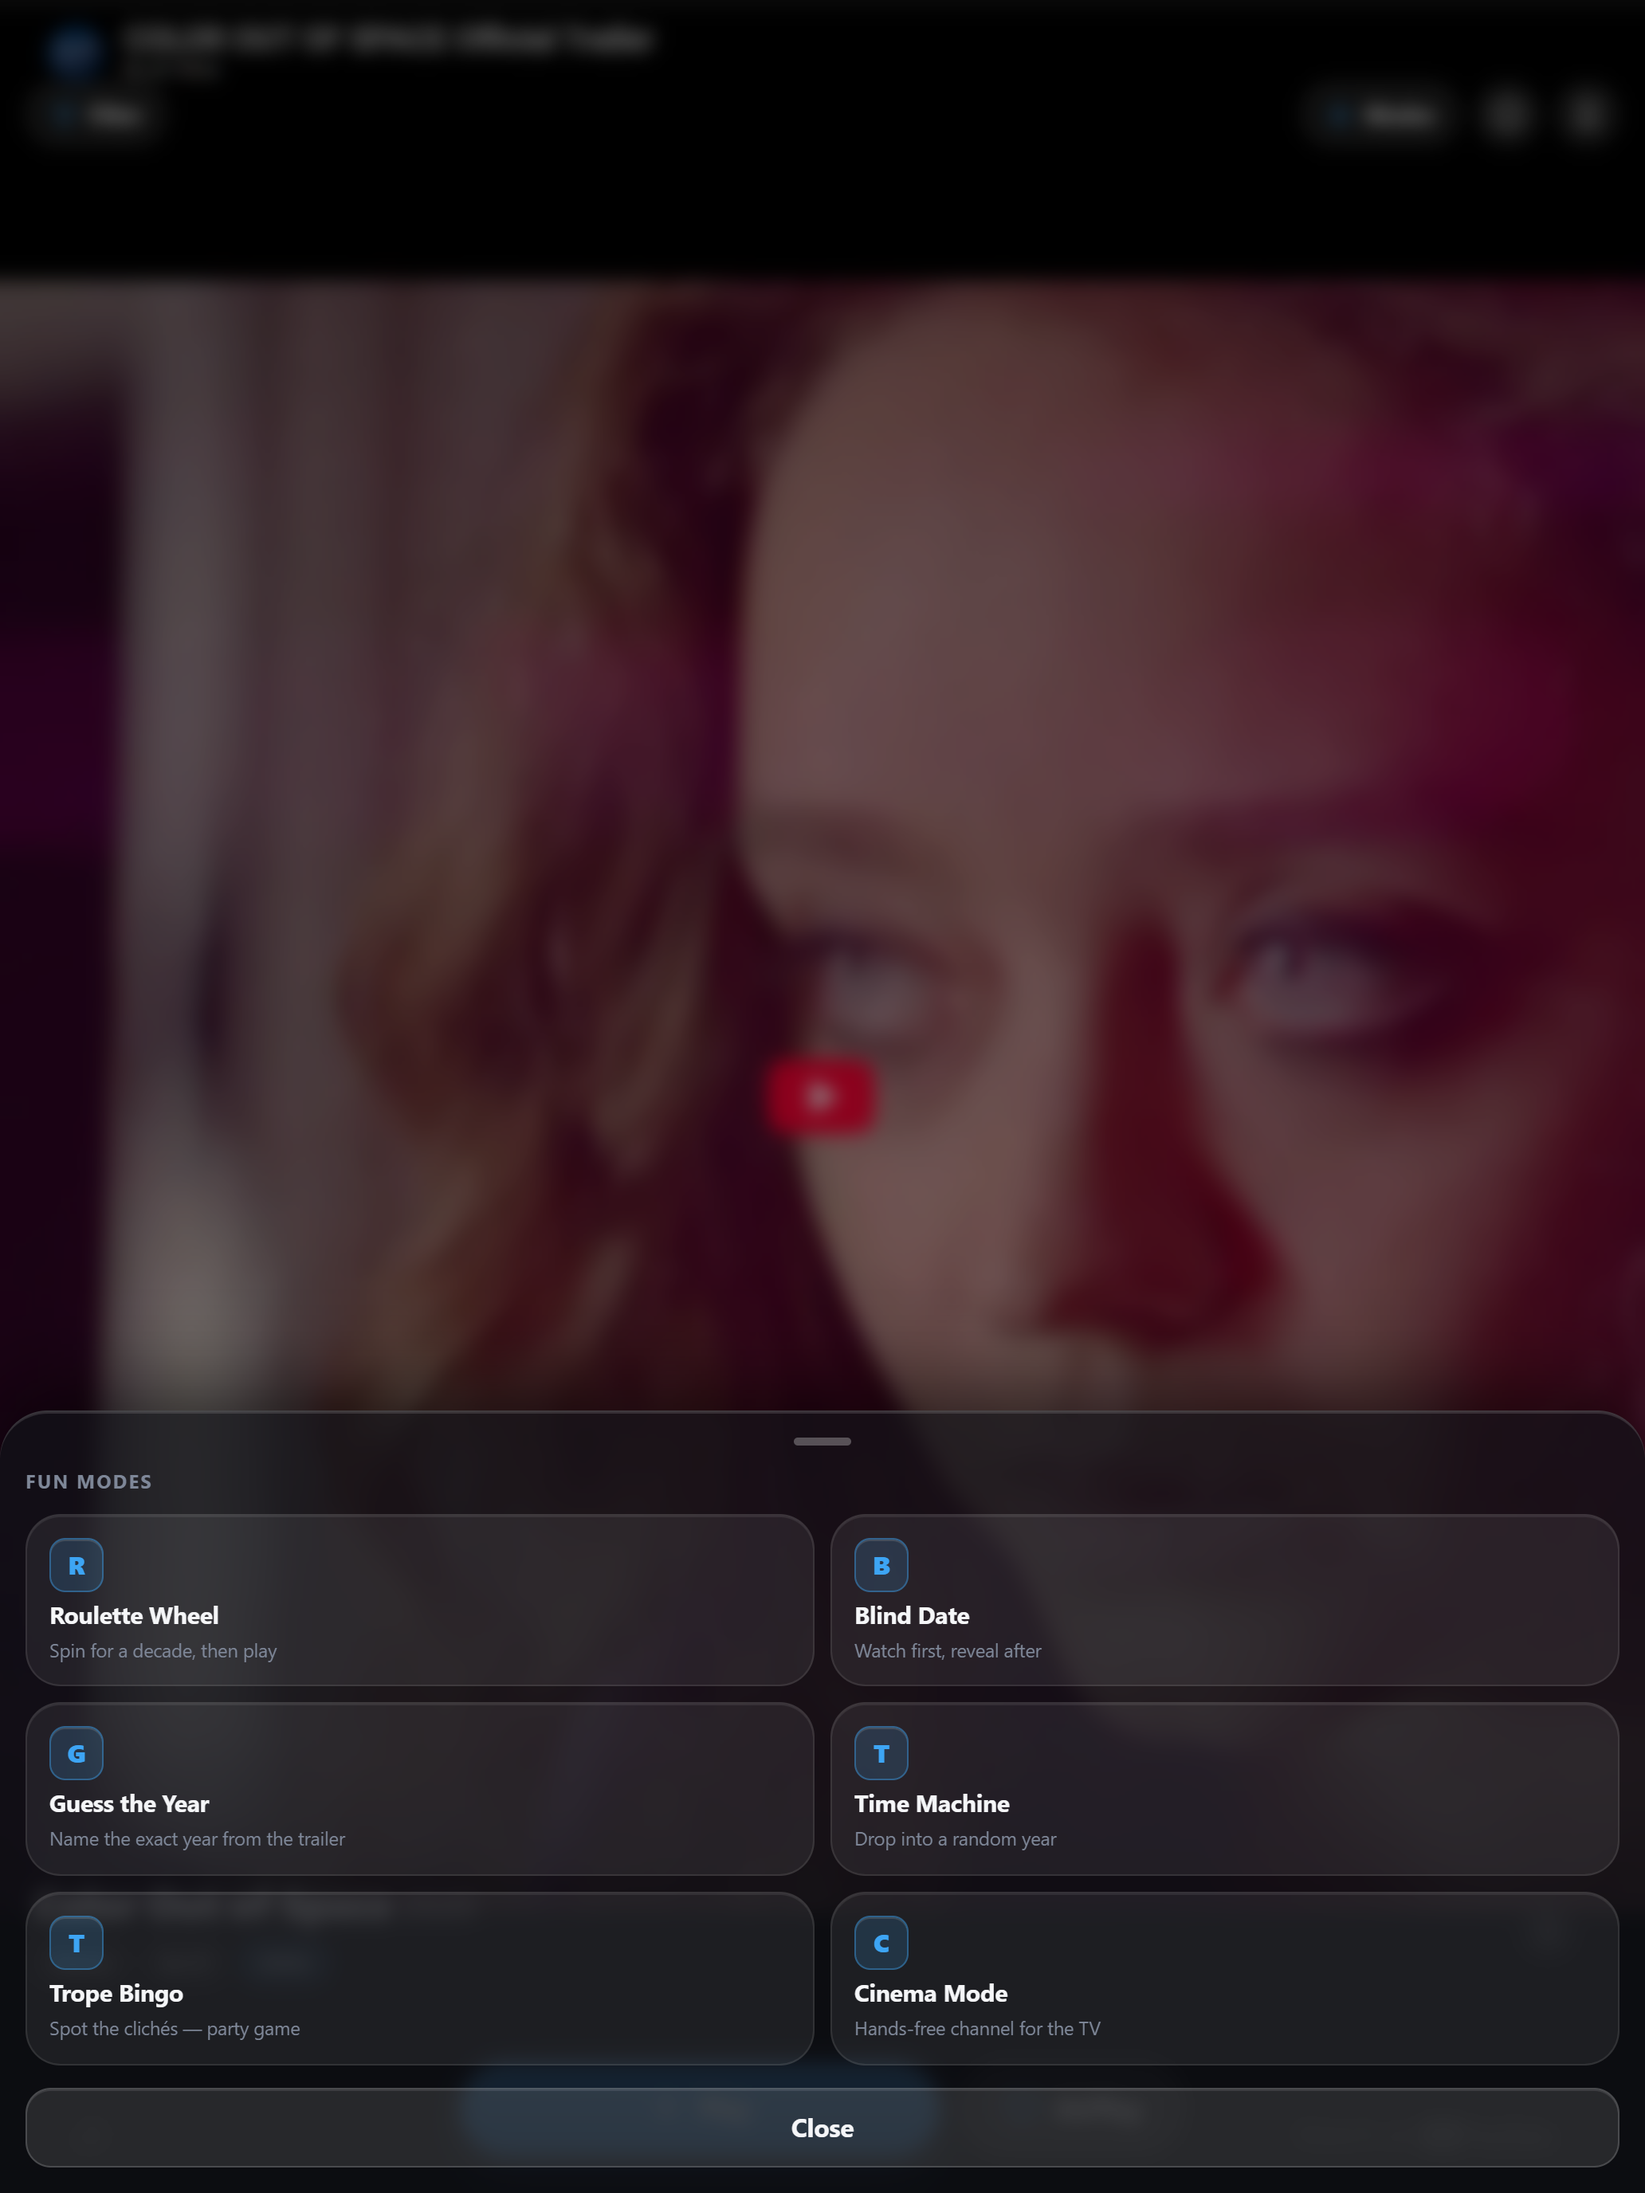
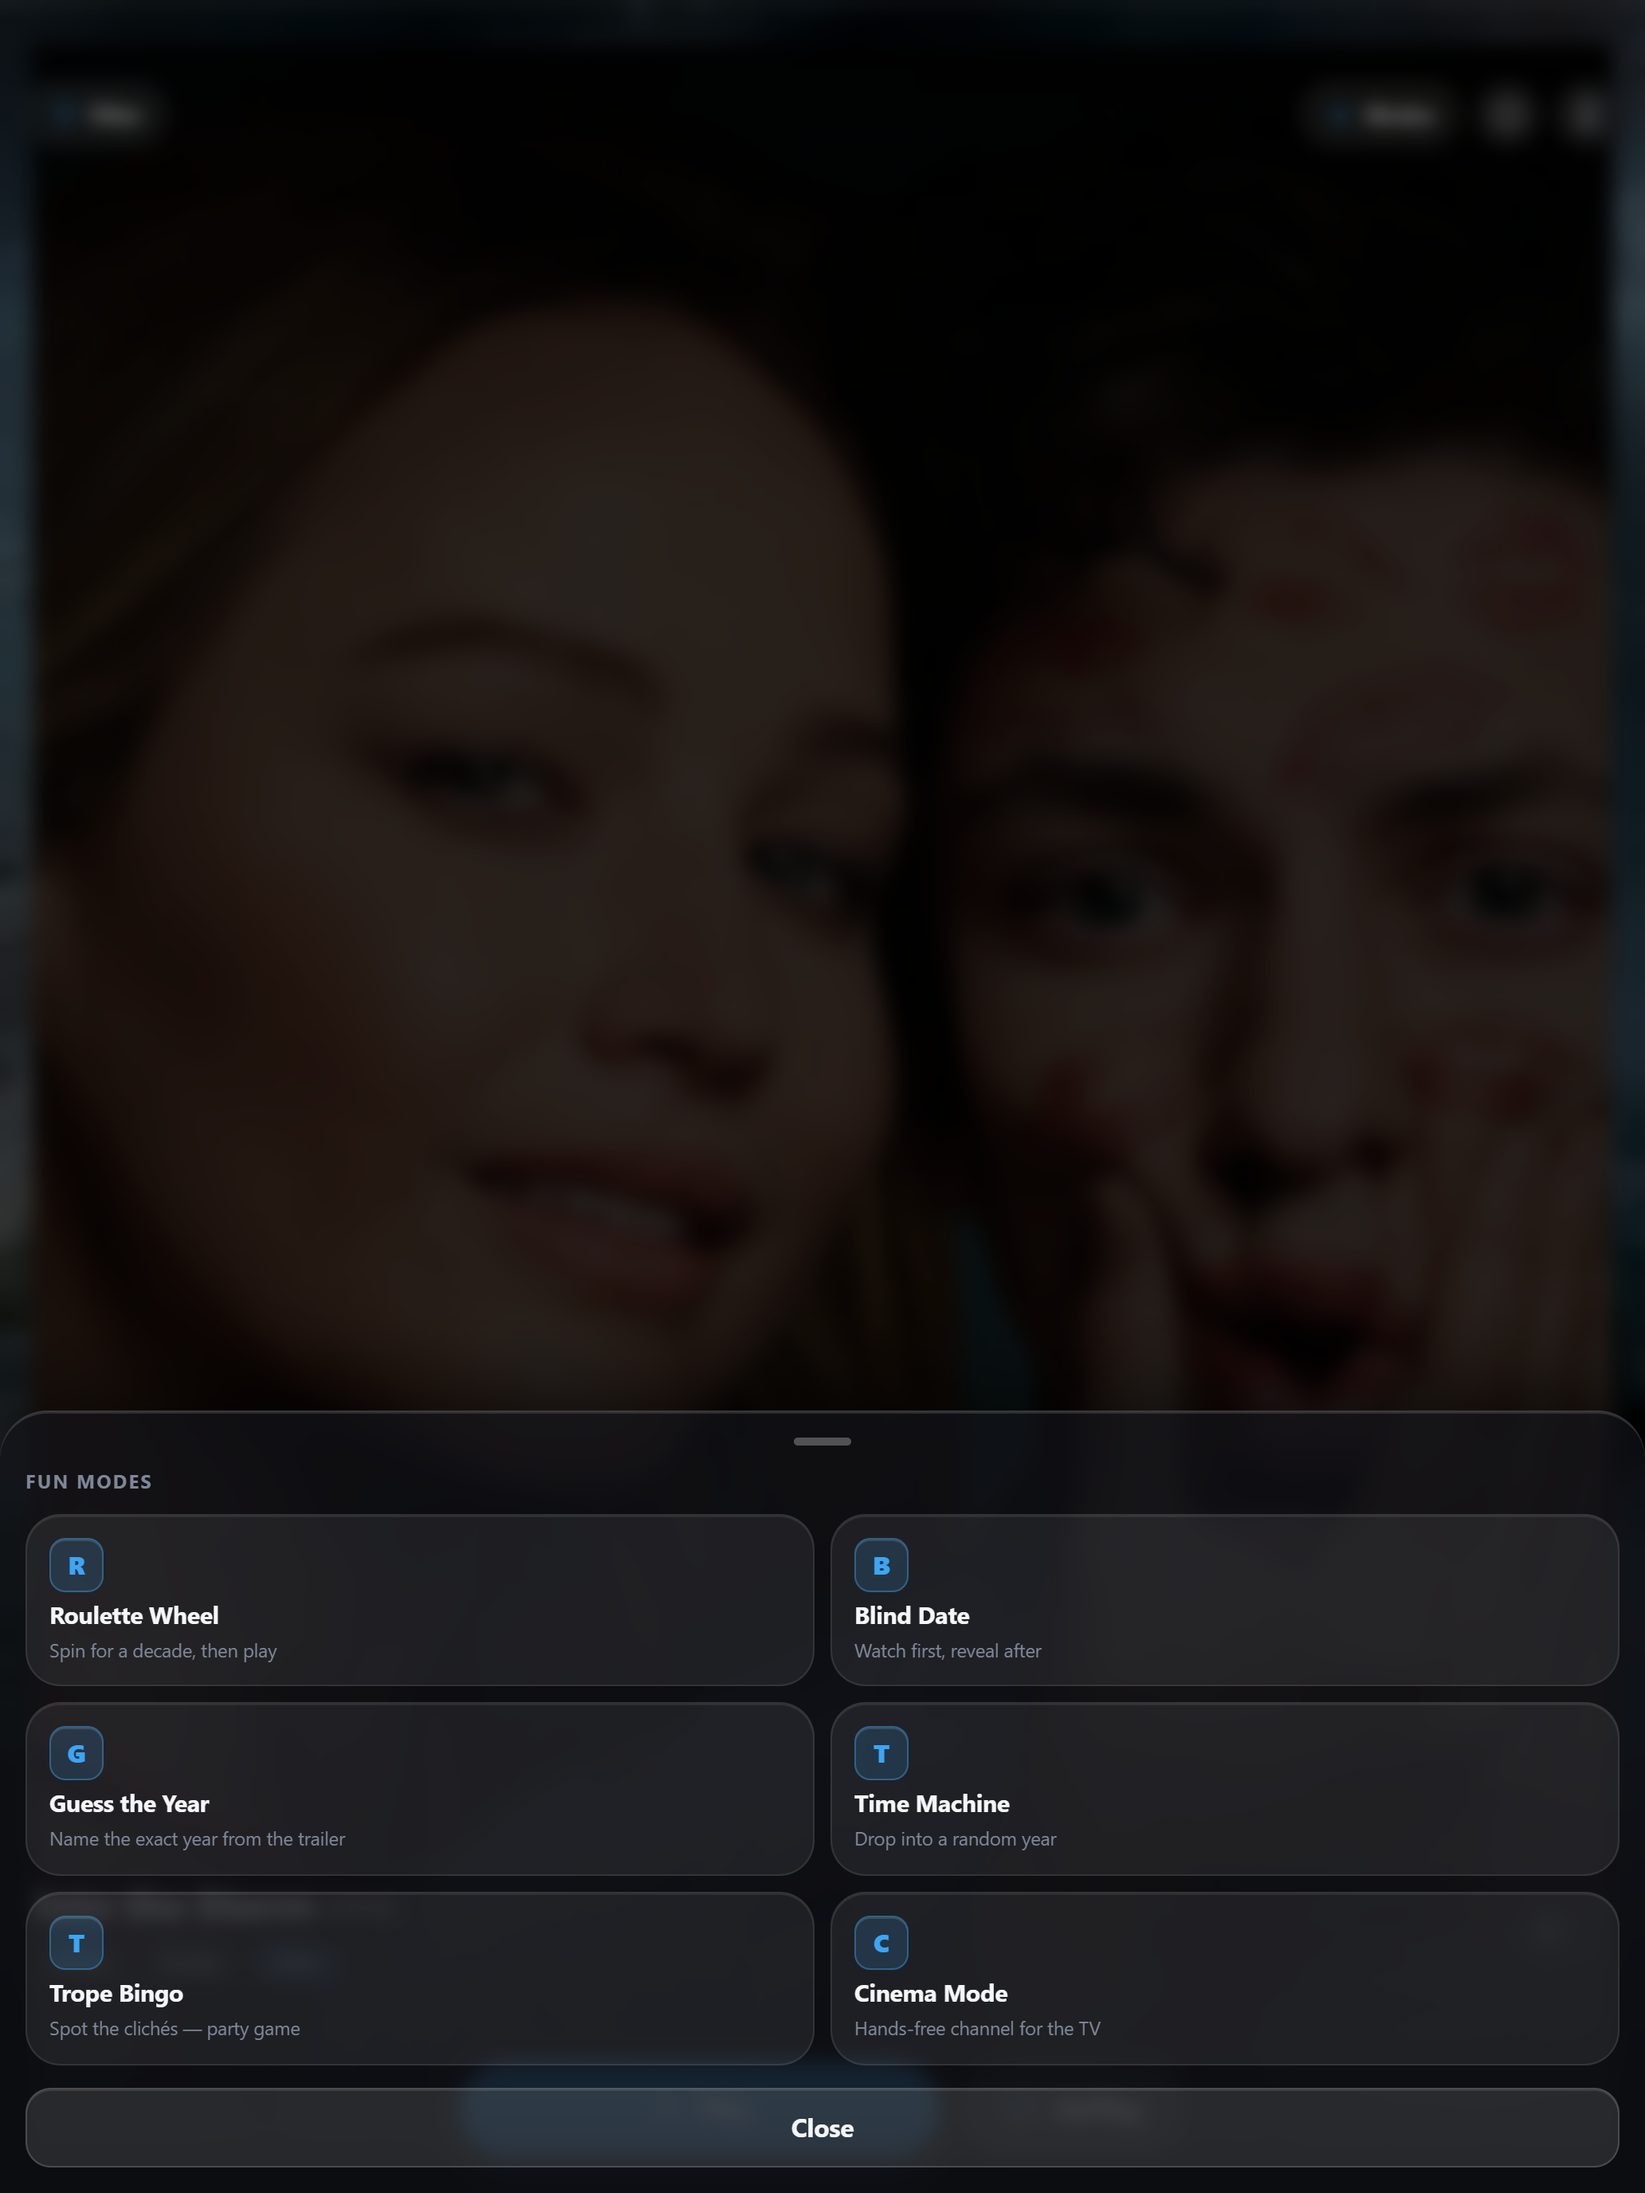
ci: capture native iOS screenshots on a runner, and stub YouTube in the browser drafts
There is no Mac on this project, so nothing has ever run the app - the compile check proves it builds and stops there. ios-screenshots.yml boots an iPhone 16 Pro Max and an iPad Pro 13-inch simulator, installs the build, launches it and captures at native resolution, which is exactly the 1320x2868 and 2064x2752 App Store Connect wants. Two shots per size: the first-run consent sheet on a fresh container, which is submittable, and the post-consent state with acceptance preseeded into NSUserDefaults, which is evidence that the app launches, renders and opens its player on iOS. It runs on release/** pushes and on demand, and uploads both sets as artifacts. Device names are a candidate list so an Xcode bump does not silently pick the wrong screen size, and the capture prints each PNG dimension.

The browser drafts had YouTube red play button blurred into the artwork on 03 and 04, because the web preview mounts an iframe on the stage that Player.ios.jsx never mounts. Aborting those requests was tried first and is worse: a blocked iframe renders the browser own opaque error document and the stage became a flat grey slab with the backdrop hidden. The capture now serves a transparent stub for youtube.com and youtube-nocookie.com, so tr-backdrop shows through - the same technique release-smoke.mjs already uses on the same hosts. Both sets recaptured; the READMEs record the attempt so nobody repeats it.
[…]

diff --git a/assets/screenshots/release-3.5.0/13-inch/README.md b/assets/screenshots/release-3.5.0/13-inch/README.md
@@ -4,12 +4,16 @@ Captured from the actual web UI with live TMDB data, through a touch-emulating
 context, without injected movies or hidden controls. 2064 x 2752 PNG.
 Files 01 welcome, 02 filters, 03 modes, 04 movie details, 05 About.
 
-## Do not submit 03 and 04 as captured
+## YouTube is stubbed during capture, on purpose
 
-Both show YouTube's red play button blurred into the backdrop. The web preview
-mounts a YouTube iframe on the stage; the iOS build plays in a native modal and
-never shows this. Third-party branding in a store screenshot is its own metadata
-risk, separately from being inaccurate.
+The web preview mounts a YouTube iframe on the stage; the iOS build plays in a
+native modal and never shows it. Unstubbed, 03 and 04 came back with YouTube's
+red play button blurred into the artwork - inaccurate, and third-party branding
+inside a store screenshot besides. The capture context serves a transparent
+document for youtube.com and youtube-nocookie.com so the TMDB backdrop shows
+through, which is what the device puts there. Aborting those requests instead
+was tried and is worse: a blocked iframe renders the browser's opaque error
+document and the stage becomes a flat grey slab.
 
 ## What a browser capture cannot show at all
 

diff --git a/assets/screenshots/release-3.5.0/6.9-inch/README.md b/assets/screenshots/release-3.5.0/6.9-inch/README.md
@@ -4,12 +4,16 @@ Captured from the actual web UI with live TMDB data, through a touch-emulating
 context, without injected movies or hidden controls. 1320 x 2868 PNG.
 Files 01 welcome, 02 filters, 03 modes, 04 movie details, 05 About.
 
-## Do not submit 03 and 04 as captured
+## YouTube is stubbed during capture, on purpose
 
-Both show YouTube's red play button blurred into the backdrop. The web preview
-mounts a YouTube iframe on the stage; the iOS build plays in a native modal and
-never shows this. Third-party branding in a store screenshot is its own metadata
-risk, separately from being inaccurate.
+The web preview mounts a YouTube iframe on the stage; the iOS build plays in a
+native modal and never shows it. Unstubbed, 03 and 04 came back with YouTube's
+red play button blurred into the artwork - inaccurate, and third-party branding
+inside a store screenshot besides. The capture context serves a transparent
+document for youtube.com and youtube-nocookie.com so the TMDB backdrop shows
+through, which is what the device puts there. Aborting those requests instead
+was tried and is worse: a blocked iframe renders the browser's opaque error
+document and the stage becomes a flat grey slab.
 
 ## What a browser capture cannot show at all
 
